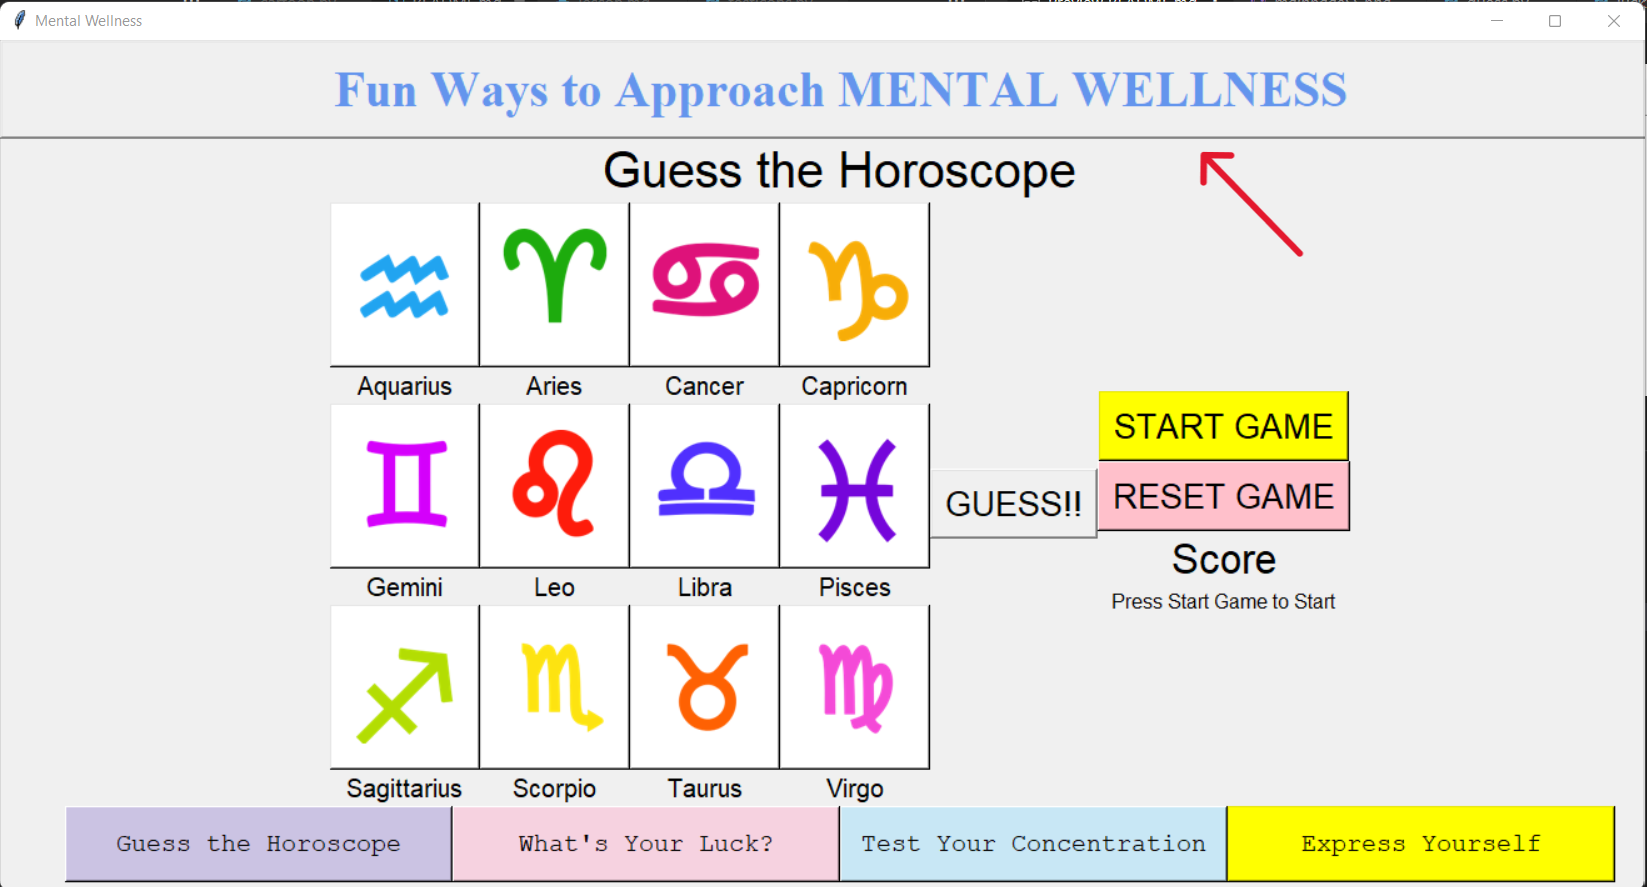
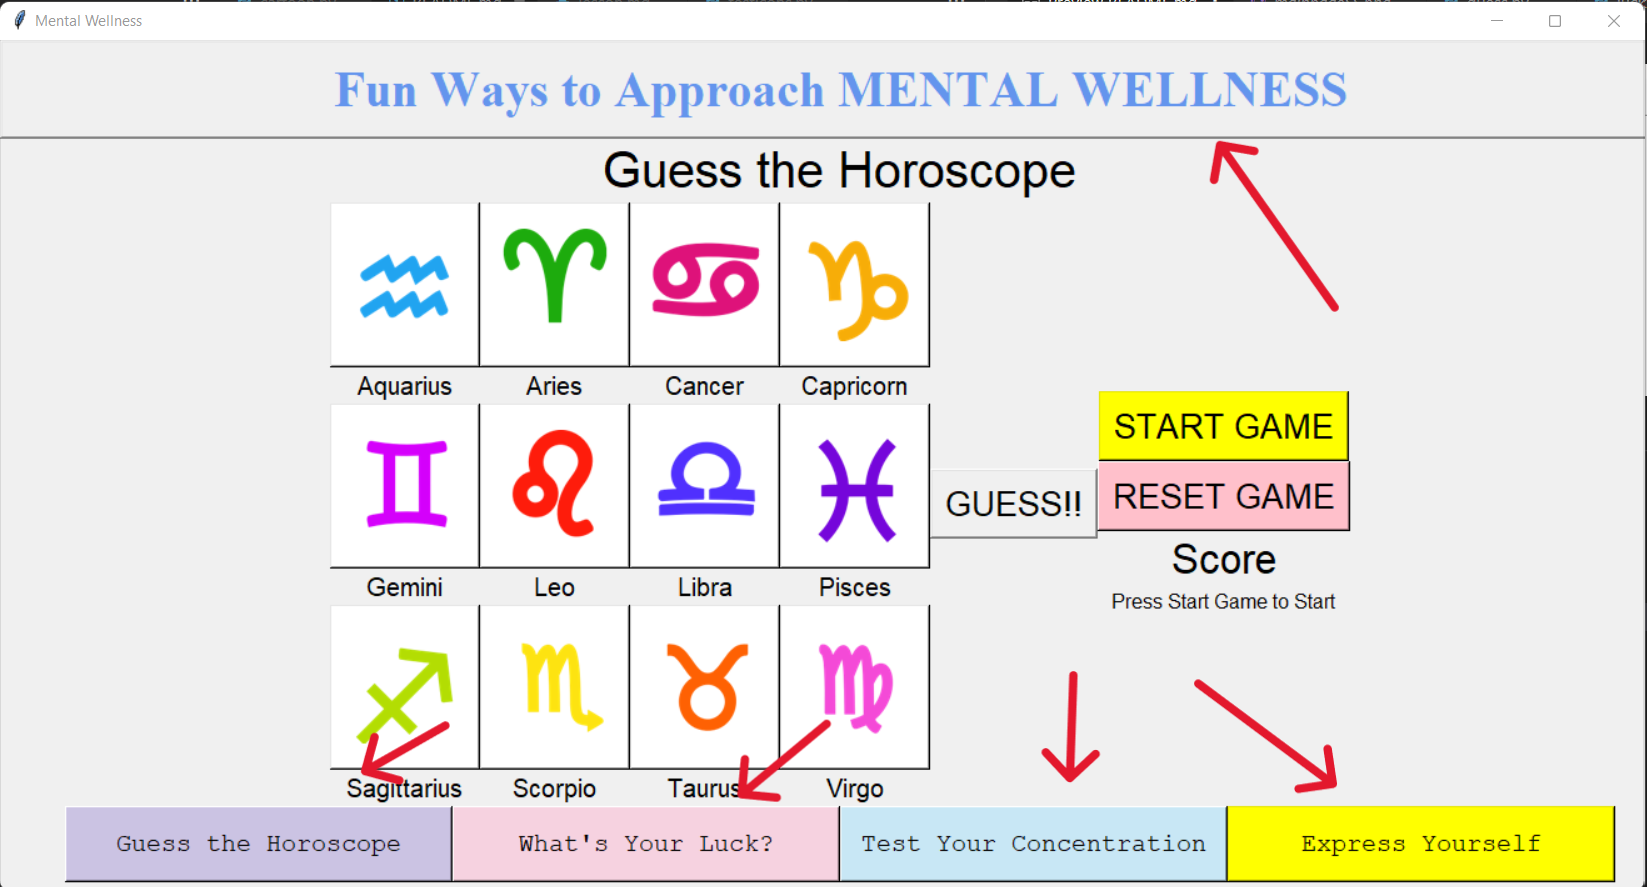
WubbaLubbaDubDub

diff --git a/README.md b/README.md
@@ -144,7 +144,7 @@ The polarizer board will generate a random horoscope image. You have to guess th
 <br>
 
 For example, if the polariser show Leo, click on the Leo button on the GUI.
---> Insert Gui pic, arrow pointing to leo button
+![](Demo%20Pics/HoroSelectLeo.png)
 *Click on the correct button*
 
 <br>
@@ -171,20 +171,21 @@ If you have -3 points, the grid will turn white and the game will end.
 <br>
 
 Likewise, if you acheive a score of 4, the grid will turn white and the game will end.
--->Insert whole gui that show 'You win' pic
+![](Demo%20Pics/HoroWin.png)
 *Win the game with a maximum of 4 points*
 
 <br>
 
 You can click on the Reset Game button to start over
---> Insert arrow pointing to reset button pic 
+![](Demo%20Pics/HoroReset.png)
 *Reset game*
 
 <br>
 
 You can click on the "Fun Ways to Approach MENTAL WELLNESS" navigation button on the top of the window to return to the home page. Or you can click on the bottom navigation button to play other games.
-==> change img and add another arrow pointing to bottom button
+
 ![](Demo%20Pics/HoroBack.png)
+
 *Navigate to home or other games page*
 
 <br>
@@ -216,8 +217,15 @@ You will then be redirected to the "What's Your Luck?" page.
 <br>
 
 On this page, you can insert your date of birth, and it will generate a random luck percentage on the polarizer. 
--->Insert arrow pointing to the dropdown button pic
-*Input your date of birth*
+![](Demo%20Pics/LuckSelectMonth.png)
+*Select your birth month*
+
+<br>
+
+![](Demo%20Pics/LuckSelectDay.png)
+*Select your birth date*
+
+<br>
 
 The luck percentages are as follows:
 - Genie Lamp
@@ -256,7 +264,7 @@ The game will generate rock, paper or scissors on the polariser. That will deter
 <br>
 
 The game has ended after playing rock, paper or scissors. You can choose to play again by entering another date of birth or click on the "Fun Ways to Approach MENTAL WELLNESS" navigation button on the top of the window to return to the home page. Or you can click on the bottom navigation button to play other games.
-==> Insert pic from Luck, arrow pointing at top and bottom of navigation button and arrow pointing to the dateofbirth dropdown
+![](Demo%20Pics/LuckBack.png)
 *Navigate to home or other games page*
 
 <br>
@@ -287,7 +295,7 @@ You will then be redirected to the ICONcentrate game page
 
 Click on the instructions button to learn how to play the game.
 
--->Insert pic, arrow pointing to instruction button
+![](Demo%20Pics/IconInstructions.png)
 *Press on 'Instruction' button to read the instructions of the game*
 
 <br>
@@ -313,7 +321,7 @@ Once the game has begun, a random brand icon will be displayed on the polarizer 
 
 You will have 20 seconds to guess the icon from the selection of choices below. 
 
--->Insert GUI page and arrow pointing to the selection of choices
+![](Demo%20Pics/IconSelect.png)
 *Choose the correct icon that is shown on the polariser*
 
 <br>
@@ -334,14 +342,14 @@ If you guessed the wrong icon, a message box will appear to notify you that you 
 
 If you guessed a correct icon, you will move on to the next level, and you can click the start button to display the next icon on the polarizer.
 
--->Insert pic and show next level and arrow pointing to Start button
+![](Demo%20Pics/IconNext.png)
 *Next level*
 
 <br>
 
 In order to beat the game, you have to guess the correct icon through 4 levels, with each level progressing with higher diffuulty where lesser-known brands are displayed or where some brand icons are harder to distinguish. You only have one attempt.
 
--->Insert pic of last level
+![](Demo%20Pics/IconLastLv.png)
 *Final level*
 
 <br>
@@ -362,7 +370,7 @@ Once you have entered your name, a messaage box with your name will appear to no
 
 You can click on the "Fun Ways to Approach MENTAL WELLNESS" navigation button on the top of the window to return to the home page. Or you can click on the bottom navigation button to play other games.
 ==> change img and add another arrow pointing to bottom button
-![](Demo%20Pics/HoroBack.png)
+![](Demo%20Pics/IconBack.png)
 *Navigate to home or other games page*
 
 <br>
@@ -426,9 +434,8 @@ You can choose any shades of black that is on the right and begin to draw on the
 
 <br>
 
-Once you are done drawwing, you can convert your drawing into a pixelised form on the grid. In order to do that, we will have to save the drawing.
+Once you are done drawing, you can convert your drawing into a pixelised form on the grid. In order to do that, we will have to save the drawing.
 
---> Change img, add arrow pointing to save button
 ![](Demo%20Pics/DrawSave.png)
 *Save drawing on canvas*
 
@@ -450,7 +457,7 @@ And voilà! You have successfully converted your drawing into a pixelised form.
 
 You can send your pixelised drawing to the polariser by clicking on the 'Send Image' button and it will display your pixelised drawing.
 
--->Insert pic, arrow pointing to send image button
+![](Demo%20Pics/DrawConvertGridSend.png)
 *Click on 'Send Image' to see pixelised form on the polariser*
 
 -->Insert pic on final outcome from the polariser
@@ -466,7 +473,7 @@ You can send your pixelised drawing to the polariser by clicking on the 'Send Im
 
 Click on the 'All White' button to turn the entire grid and canvas to white.
 
--->Insert pic, arrow pointing on 'all white' button
+![](Demo%20Pics/DrawAllWhite.png)
 *Change the grid and canvas to white*
 
 <br>
@@ -489,7 +496,7 @@ Turns the entire grid and canvas to black. This can be extremely helpful if you 
 <br>
 Click on the 'All Black' button to turn the entire grid and canvas to black.
 
--->Insert pic, arrow pointing on 'all black' button
+![](Demo%20Pics/DrawAllBlack.png)
 *Change the grid and canvas to black*
 
 <br>
@@ -506,7 +513,7 @@ Click on the 'All Black' button to turn the entire grid and canvas to black.
 
 If you want to clear your canvas or grid, you can press the clear button.
 
--->Insert pic, arrow pointing to 'clear' button
+![](Demo%20Pics/DrawSave.png)
 *Clear everything that is drawn either on grid or canvas*
 
 <br>
